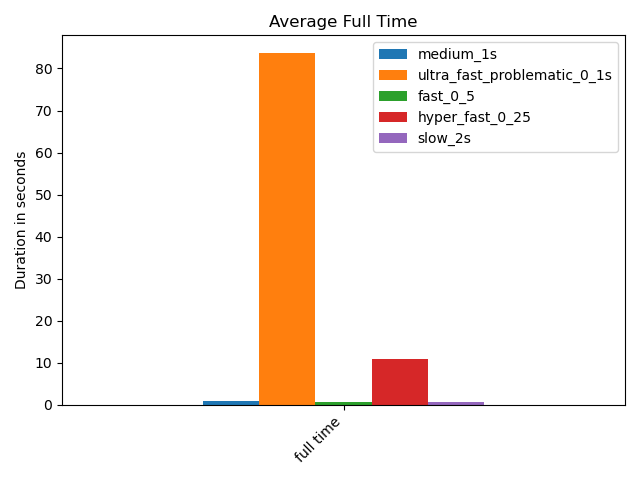
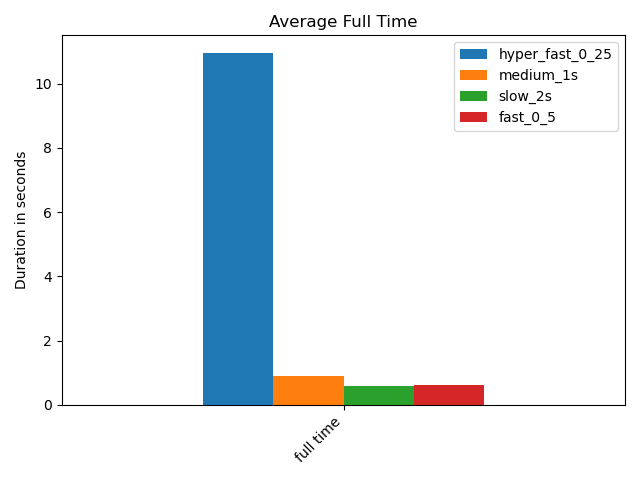
updated charts

diff --git a/iot/benchmark.py b/iot/benchmark.py
@@ -48,6 +48,10 @@ def bar_chart_of_metrics(datasets : dict):
 
         averages_full_time[dataset_name] = (dataset["iot_end"] - dataset["iot_start"]).mean()
 
+    #   Remove ultra_fast_problematic_0_1_s from latency and full time
+    averages_latency_all.pop("ultra_fast_problematic_0_1s")
+    averages_full_time.pop("ultra_fast_problematic_0_1s")
+
     '''create bar chart of layers'''
     df_layers = pd.DataFrame(averages_layers)
     df_layers.plot(kind="bar")
